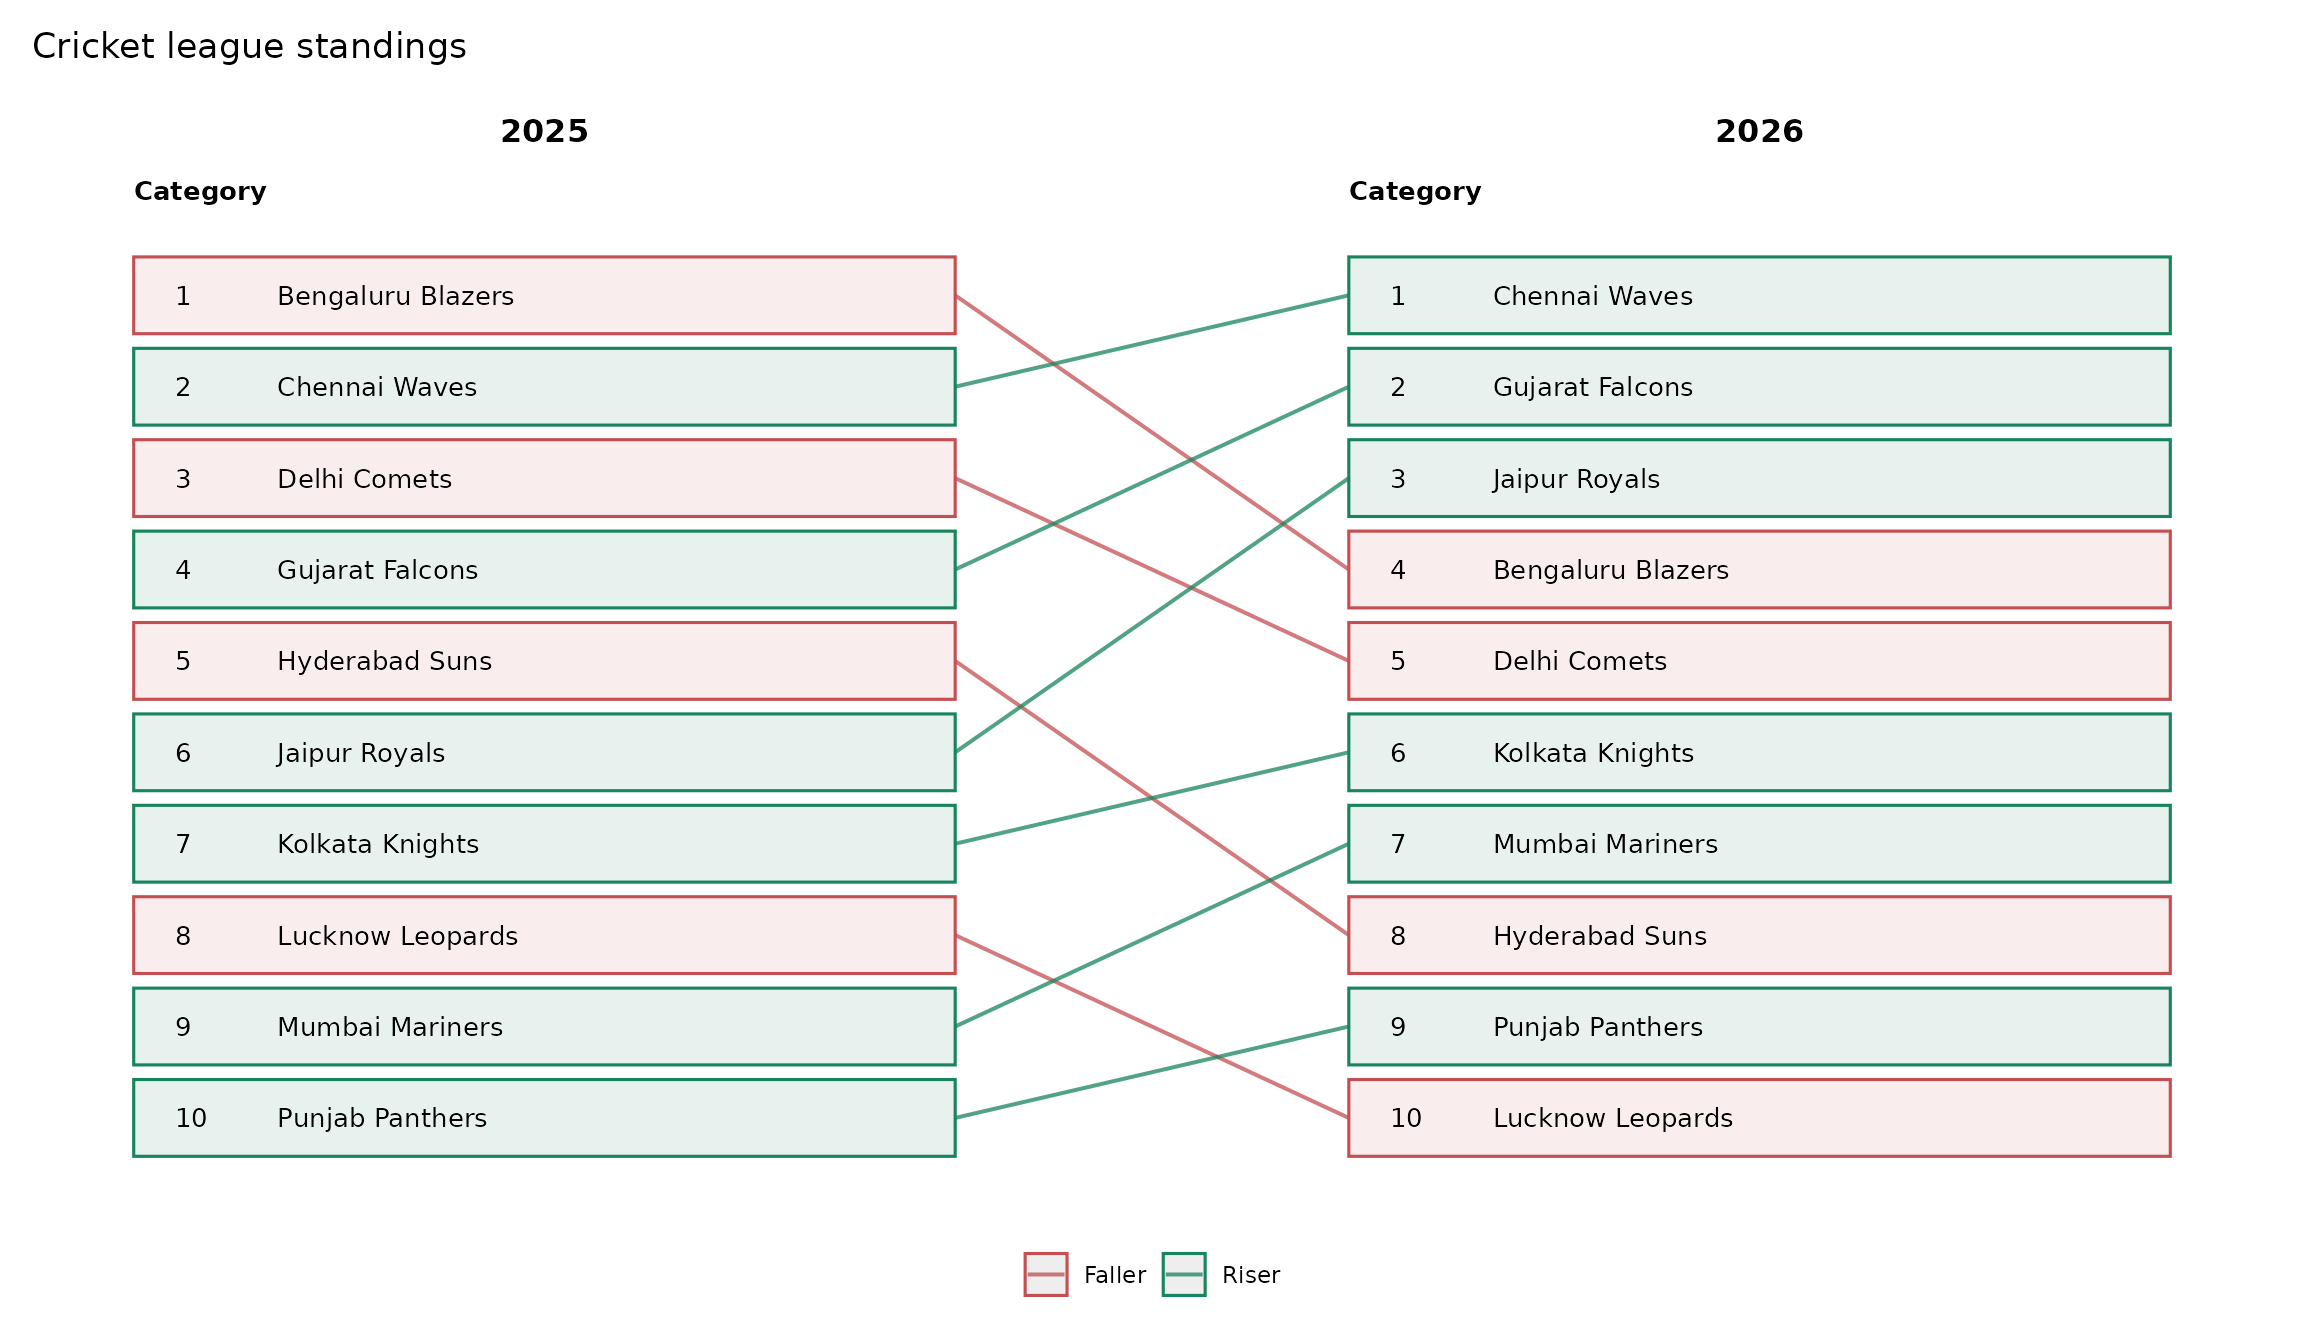
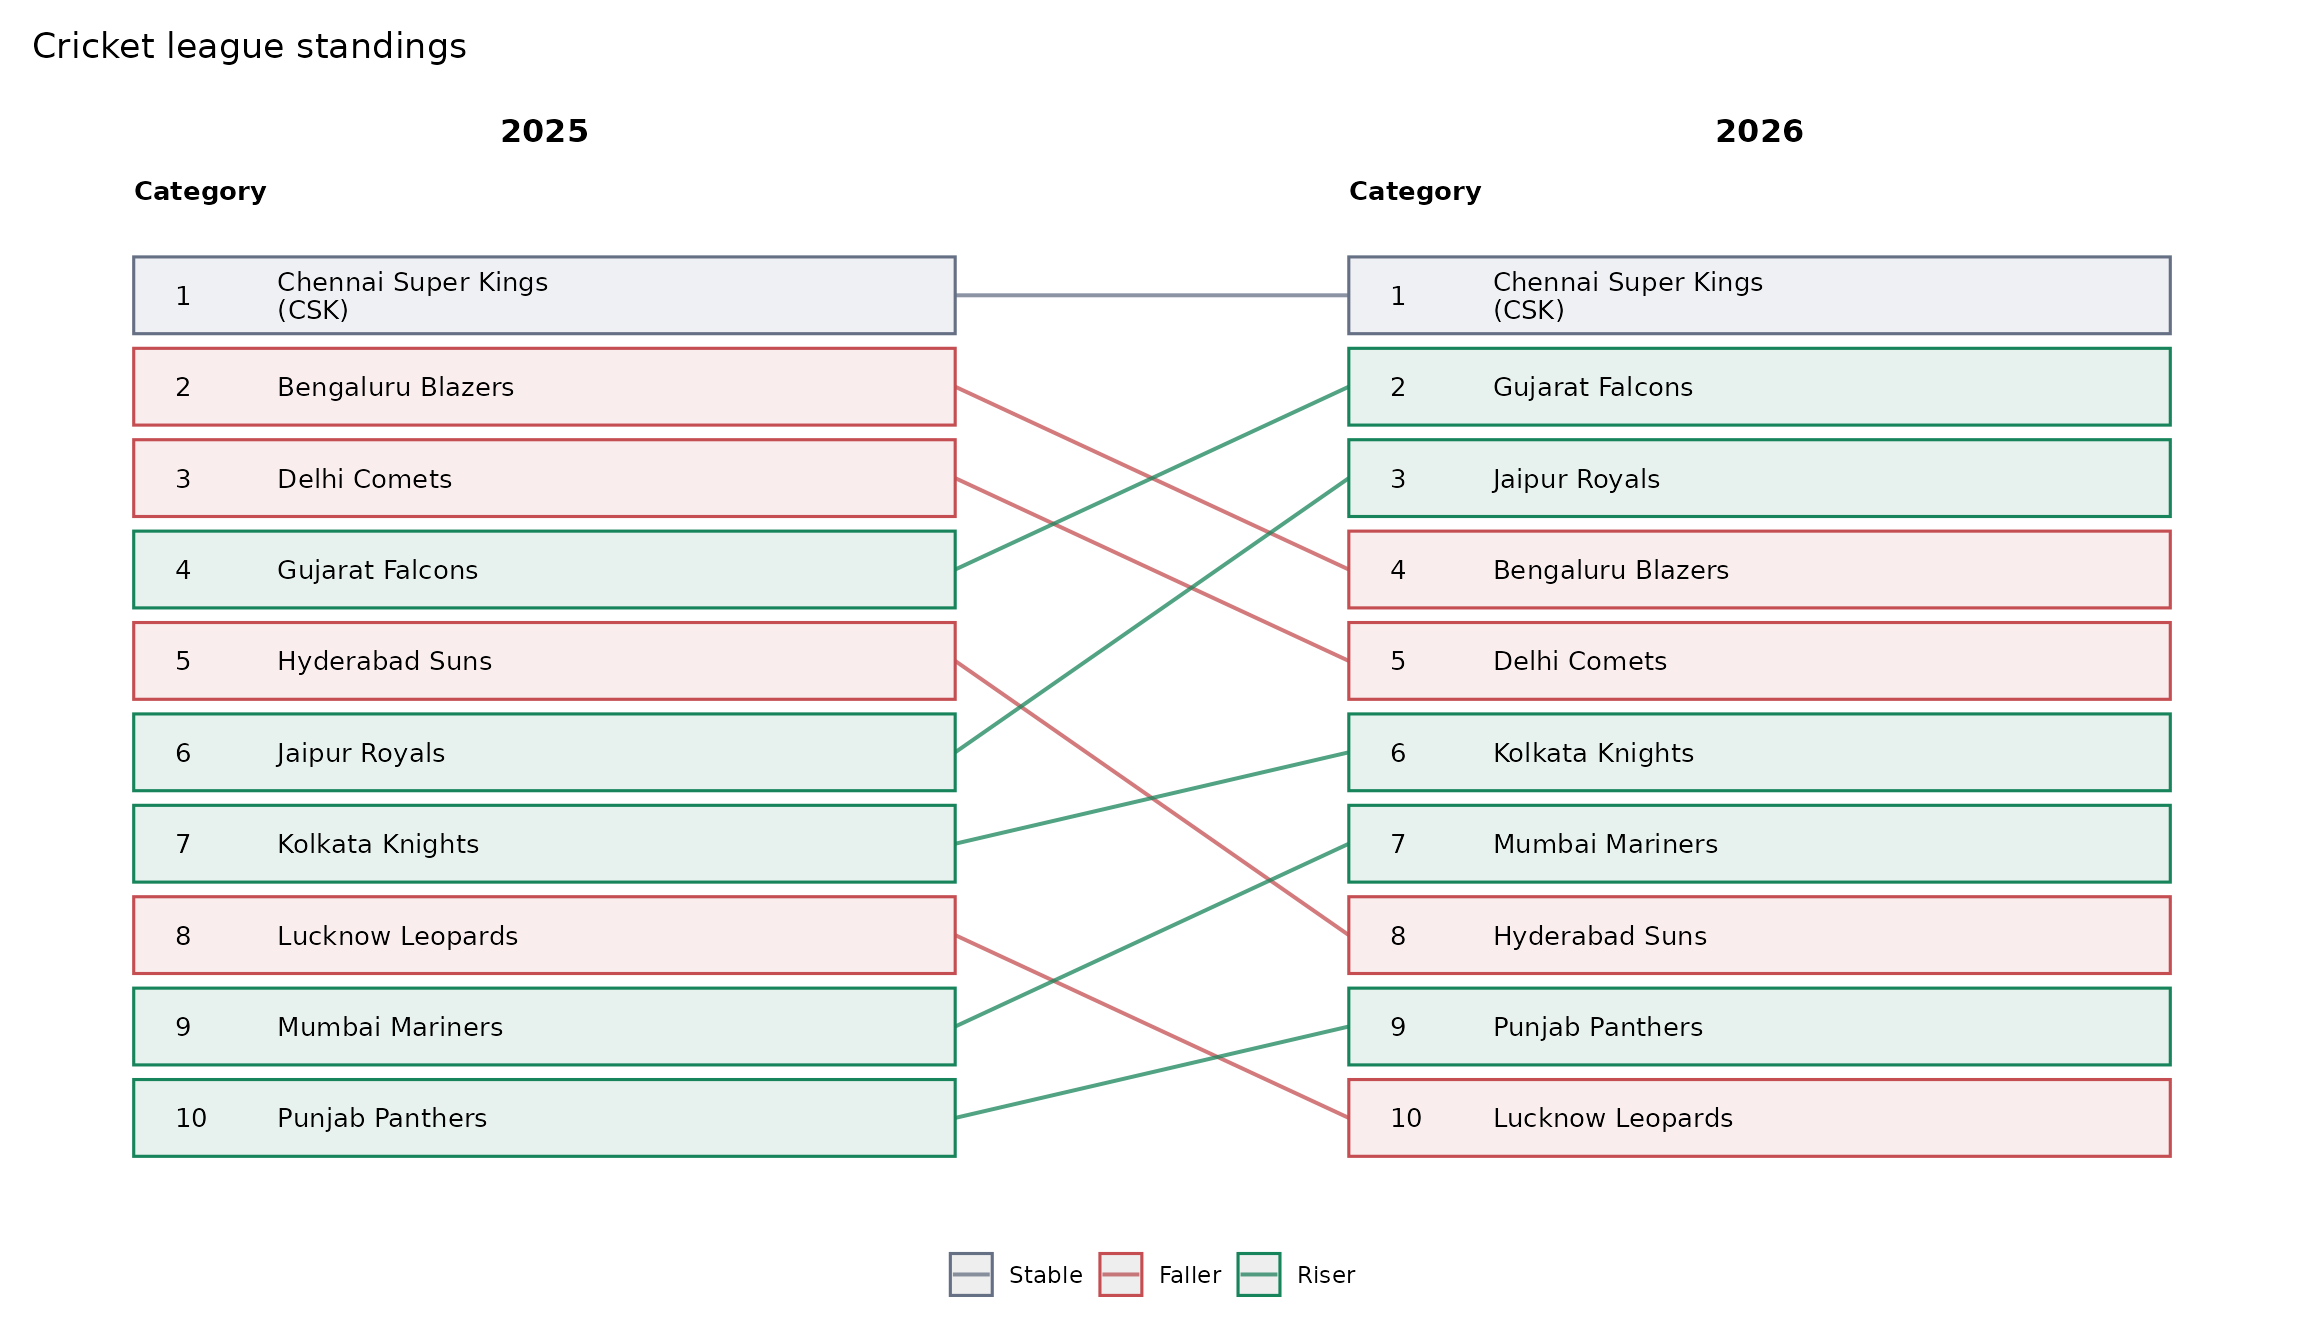
Built site for ggrank@0.1.0: fff0a47

diff --git a/articles/sports-leaderboards.html b/articles/sports-leaderboards.html
@@ -152,11 +152,11 @@ only.</p>
 <code class="sourceCode R"><span><span class="va">cricket</span> <span class="op">&lt;-</span> <span class="fu"><a href="https://rdrr.io/r/base/data.frame.html" class="external-link">data.frame</a></span><span class="op">(</span></span>
 <span>  season <span class="op">=</span> <span class="fu"><a href="https://rdrr.io/r/base/rep.html" class="external-link">rep</a></span><span class="op">(</span><span class="fu"><a href="https://rdrr.io/r/base/c.html" class="external-link">c</a></span><span class="op">(</span><span class="st">"2025"</span>, <span class="st">"2026"</span><span class="op">)</span>, each <span class="op">=</span> <span class="fl">10</span><span class="op">)</span>,</span>
 <span>  team <span class="op">=</span> <span class="fu"><a href="https://rdrr.io/r/base/rep.html" class="external-link">rep</a></span><span class="op">(</span><span class="fu"><a href="https://rdrr.io/r/base/c.html" class="external-link">c</a></span><span class="op">(</span></span>
-<span>    <span class="st">"Bengaluru Blazers"</span>, <span class="st">"Chennai Waves"</span>, <span class="st">"Delhi Comets"</span>, <span class="st">"Gujarat Falcons"</span>,</span>
+<span>    <span class="st">"Bengaluru Blazers"</span>, <span class="st">"Chennai Super Kings (CSK)"</span>, <span class="st">"Delhi Comets"</span>, <span class="st">"Gujarat Falcons"</span>,</span>
 <span>    <span class="st">"Hyderabad Suns"</span>, <span class="st">"Jaipur Royals"</span>, <span class="st">"Kolkata Knights"</span>, <span class="st">"Lucknow Leopards"</span>,</span>
 <span>    <span class="st">"Mumbai Mariners"</span>, <span class="st">"Punjab Panthers"</span></span>
 <span>  <span class="op">)</span>, <span class="fl">2</span><span class="op">)</span>,</span>
-<span>  rank <span class="op">=</span> <span class="fu"><a href="https://rdrr.io/r/base/c.html" class="external-link">c</a></span><span class="op">(</span><span class="fl">1</span>, <span class="fl">2</span>, <span class="fl">3</span>, <span class="fl">4</span>, <span class="fl">5</span>, <span class="fl">6</span>, <span class="fl">7</span>, <span class="fl">8</span>, <span class="fl">9</span>, <span class="fl">10</span>,</span>
+<span>  rank <span class="op">=</span> <span class="fu"><a href="https://rdrr.io/r/base/c.html" class="external-link">c</a></span><span class="op">(</span><span class="fl">2</span>, <span class="fl">1</span>, <span class="fl">3</span>, <span class="fl">4</span>, <span class="fl">5</span>, <span class="fl">6</span>, <span class="fl">7</span>, <span class="fl">8</span>, <span class="fl">9</span>, <span class="fl">10</span>,</span>
 <span>           <span class="fl">4</span>, <span class="fl">1</span>, <span class="fl">5</span>, <span class="fl">2</span>, <span class="fl">8</span>, <span class="fl">3</span>, <span class="fl">6</span>, <span class="fl">10</span>, <span class="fl">7</span>, <span class="fl">9</span><span class="op">)</span></span>
 <span><span class="op">)</span></span>
 <span></span>

diff --git a/articles/sports-leaderboards.md b/articles/sports-leaderboards.md
@@ -92,11 +92,11 @@ This IPL-style teaching example therefore uses names and ranks only.
 cricket <- data.frame(
   season = rep(c("2025", "2026"), each = 10),
   team = rep(c(
-    "Bengaluru Blazers", "Chennai Waves", "Delhi Comets", "Gujarat Falcons",
+    "Bengaluru Blazers", "Chennai Super Kings (CSK)", "Delhi Comets", "Gujarat Falcons",
     "Hyderabad Suns", "Jaipur Royals", "Kolkata Knights", "Lucknow Leopards",
     "Mumbai Mariners", "Punjab Panthers"
   ), 2),
-  rank = c(1, 2, 3, 4, 5, 6, 7, 8, 9, 10,
+  rank = c(2, 1, 3, 4, 5, 6, 7, 8, 9, 10,
            4, 1, 5, 2, 8, 3, 6, 10, 7, 9)
 )
 
